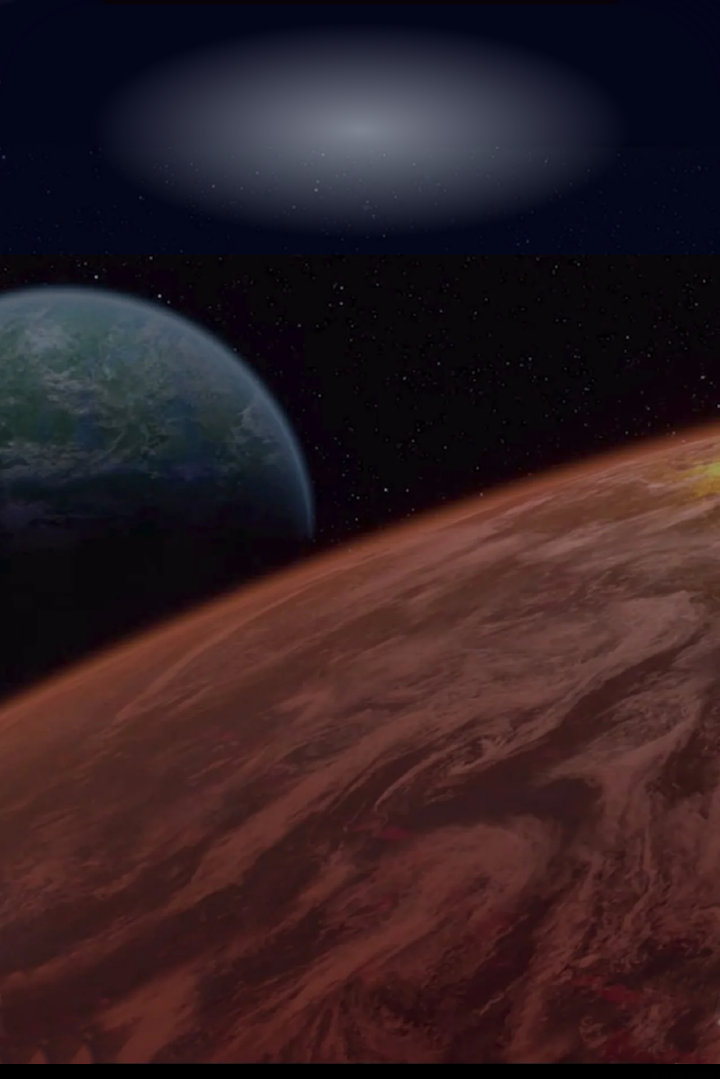
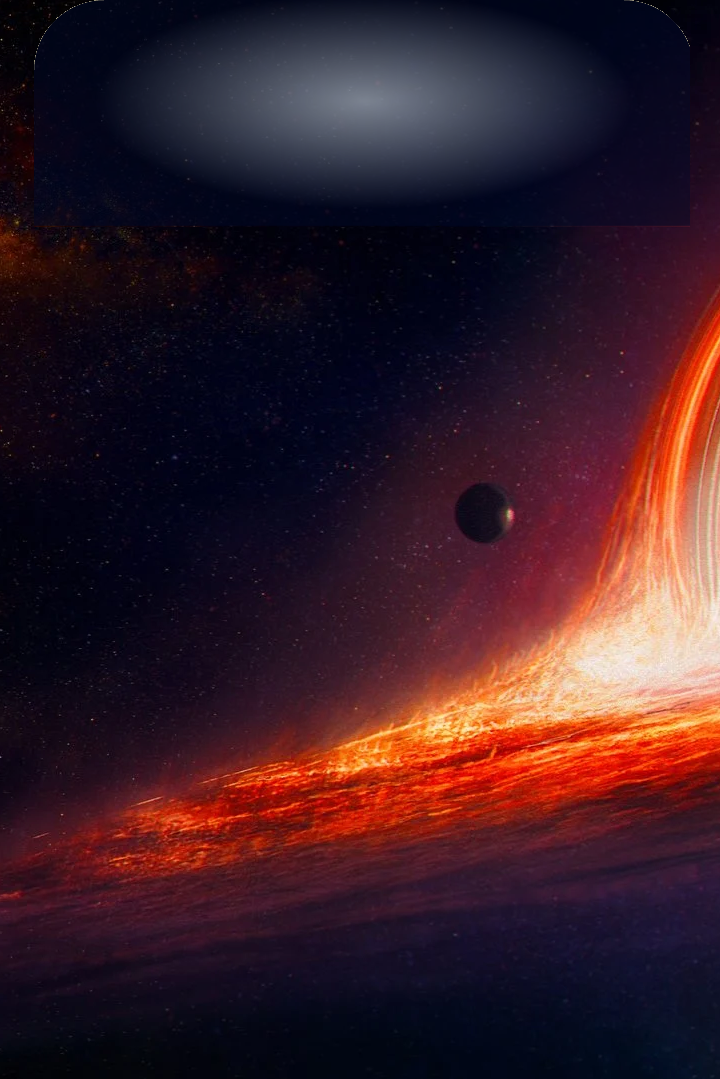
Added fleet battle stats to player cards

diff --git a/resources/views/pilotcard.blade.php b/resources/views/pilotcard.blade.php
@@ -55,9 +55,9 @@
         main {
             background-image: url('/images/pilot-card-bg.png');
             background-size: cover;
-            border: calc(99vh * 0.02) solid #1347df;
+            border: calc(99vh * 0.02) solid rgb(164, 143, 62);
             border-radius: calc(99vh * 0.1);
-            box-shadow: 0 0 0 calc(99vh * 0.00925925925925925925925925925926) #cdd9eb inset;
+            box-shadow: 0 0 0 calc(99vh * 0.00925925925925925925925925925926) #d1c79e inset;
             color: #cdd9eb;
             display: flex;
             flex-direction: column;
@@ -116,6 +116,7 @@
             background-color: transparent;
             color: inherit;
             font-size: calc(99vh * 0.03);
+            text-align: left;
             width: 33%;
         }
         table td {
@@ -123,18 +124,26 @@
             color: #000723;
             font-size: calc(99vh * 0.036);
             width: 25%;
-            padding: calc(99vh * 0.009) calc(99vh * 0.022);
+            padding: 0 calc(99vh * 0.022);
+            text-align: right;
         }
         table th {
             font-size: calc(99vh * 0.02962);
             font-weight: normal;
             padding: calc(99vh * 0.007) calc(99vh * 0.02);
+            text-align: right;
+        }
+        table td span.medium-stat {
+            font-size: calc(99vh * 0.025);
+        }
+        table td span.smaller-stat {
+            font-size: calc(99vh * 0.02);
         }
     </style>
 </head>
 <body>
 <script>
-    let query = "INSERT INTO `cards` (`id`,`season`,`pilotname`,`team`,`team_image`,`nr_k`,`nr_d`,`nr_a`,`nr_w`,`nr_kd`,`ge_k`,`ge_d`,`ge_a`,`ge_w`,`ge_kd`,`t_kd`,`created_at`,`updated_at`) VALUES (NULL,'proto-0','{{ $pilot->pilot_name }}','{{ $team->team_name }}','{{ $team->logo != '' ? $team->logo : 'default.png' }}','{{ $nrStat['kills'] }}','{{ $nrStat['deaths'] }}','{{ $nrStat['assists'] }}','{{ $nrStat['wins'] }}','{{ number_format($nrStat['kills'] / ($nrStat['deaths'] != 0 ? $nrStat['deaths'] : 1), 2) }}','{{ $eStat['kills'] }}','{{ $eStat['deaths'] }}','{{ $eStat['assists'] }}','{{ $eStat['wins'] }}','{{ number_format($eStat['kills'] / ($eStat['deaths'] != 0 ? $eStat['deaths'] : 1), 2) }}','{{ number_format(($nrStat['kills'] + $eStat['kills']) / (($nrStat['deaths'] + $eStat['deaths']) != 0 ? ($nrStat['deaths'] + $eStat['deaths']) : 1), 2) }}',NULL,NULL); ";
+    let query = "INSERT INTO `cards` (`id`,`season`,`pilotname`,`team`,`team_image`,`nr_k`,`nr_d`,`nr_a`,`nr_w`,`nr_kd`,`nr_ai`,`nr_cap`,`ge_k`,`ge_d`,`ge_a`,`ge_w`,`ge_kd`,`ge_ai`,`ge_cap`,`t_kd`,`created_at`,`updated_at`) VALUES (NULL,'proto-0','{{ $pilot->pilot_name }}','{{ $team->team_name }}','{{ $team->logo != '' ? $team->logo : 'default.png' }}','{{ $nrStat['kills'] }}','{{ $nrStat['deaths'] }}','{{ $nrStat['assists'] }}','{{ $nrStat['wins'] }}','{{ number_format($nrStat['kills'] / ($nrStat['deaths'] != 0 ? $nrStat['deaths'] : 1), 2) }}','{{ $nrStat['ai'] }}','{{ $nrStat['cap'] }}','{{ $eStat['kills'] }}','{{ $eStat['deaths'] }}','{{ $eStat['assists'] }}','{{ $eStat['wins'] }}','{{ number_format($eStat['kills'] / ($eStat['deaths'] != 0 ? $eStat['deaths'] : 1), 2) }}','{{ $eStat['ai'] }}','{{ $eStat['cap'] }}','{{ number_format(($nrStat['kills'] + $eStat['kills']) / (($nrStat['deaths'] + $eStat['deaths']) != 0 ? ($nrStat['deaths'] + $eStat['deaths']) : 1), 2) }}',NULL,NULL); ";
 
     console.log(query);
 </script>
@@ -178,10 +187,16 @@
             <td>{{ $eStat['wins'] + $nrStat['wins'] }}</td>
         </tr>
         <tr>
-            <td>K/D</td>
-            <td>{{ number_format($nrStat['kills'] / ($nrStat['deaths'] != 0 ? $nrStat['deaths'] : 1), 2) }}</td>
-            <td>{{ number_format($eStat['kills'] / ($eStat['deaths'] != 0 ? $eStat['deaths'] : 1), 2) }}</td>
-            <td>{{ number_format(($nrStat['kills'] + $eStat['kills']) / (($nrStat['deaths'] + $eStat['deaths']) != 0 ? ($nrStat['deaths'] + $eStat['deaths']) : 1), 2) }}</td>
+            <td>AI</td>
+            <td><span class="medium-stat">{{ number_format($nrStat['ai']) }}</span></td>
+            <td><span class="medium-stat">{{ number_format($eStat['ai']) }}</span></td>
+            <td><span class="medium-stat">{{ number_format($eStat['ai'] + $nrStat['ai']) }}</span></td>
+        </tr>
+        <tr>
+            <td>CAP</td>
+            <td><span class="smaller-stat">{{ number_format($nrStat['cap']) }}</span></td>
+            <td><span class="smaller-stat">{{ number_format($eStat['cap']) }}</span></td>
+            <td><span class="smaller-stat">{{ number_format($eStat['cap'] + $nrStat['cap']) }}</span></td>
         </tr>
     </table>
     <figure>

diff --git a/app/Http/Controllers/HomeController.php b/app/Http/Controllers/HomeController.php
@@ -109,8 +109,8 @@ class HomeController extends Controller
         $pilot = pilot::where('pilot_name', $pilotname)->first();
         $team = team::where('id', $pilot->team_id)->first();
         $stats = pilotStat::where('pilot_id', $pilot->id)->get();
-        $nrStat = ['kills' => 0, 'deaths' => 0, 'assists' => 0, 'wins' => 0];
-        $eStat = ['kills' => 0, 'deaths' => 0, 'assists' => 0, 'wins' => 0];
+        $nrStat = ['kills' => 0, 'deaths' => 0, 'assists' => 0, 'wins' => 0, 'cap' => 0, 'ai' => 0];
+        $eStat = ['kills' => 0, 'deaths' => 0, 'assists' => 0, 'wins' => 0, 'cap' => 0, 'ai' => 0];
 
         for ($i = 0; $i < count($stats); $i++) {
             $match = \App\Models\match::where('id', $stats[$i]->match_id)->first();
@@ -123,12 +123,16 @@ class HomeController extends Controller
                     $nrStat["deaths"]+=$stats[$i]->deaths;
                     $nrStat["assists"]+=$stats[$i]->assists;
                     $nrStat["wins"]+=$stats[$i]->match_won;
+                    $nrStat["ai"]+=$stats[$i]->ai_kills;
+                    $nrStat["cap"]+=$stats[$i]->cap_damage;
                 } else {
                     //add to emp stats
                     $eStat["kills"]+=$stats[$i]->kills;
                     $eStat["deaths"]+=$stats[$i]->deaths;
                     $eStat["assists"]+=$stats[$i]->assists;
                     $eStat["wins"]+=$stats[$i]->match_won;
+                    $eStat["ai"]+=$stats[$i]->ai_kills;
+                    $eStat["cap"]+=$stats[$i]->cap_damage;
                 }
             }
             if ($pilot->team_id == $matchup->team2_id) {
@@ -138,12 +142,16 @@ class HomeController extends Controller
                     $nrStat["deaths"]+=$stats[$i]->deaths;
                     $nrStat["assists"]+=$stats[$i]->assists;
                     $nrStat["wins"]+=$stats[$i]->match_won;
+                    $nrStat["ai"]+=$stats[$i]->ai_kills;
+                    $nrStat["cap"]+=$stats[$i]->cap_damage;
                 } else {
                     //add to emp stats
                     $eStat["kills"]+=$stats[$i]->kills;
                     $eStat["deaths"]+=$stats[$i]->deaths;
                     $eStat["assists"]+=$stats[$i]->assists;
                     $eStat["wins"]+=$stats[$i]->match_won;
+                    $eStat["ai"]+=$stats[$i]->ai_kills;
+                    $eStat["cap"]+=$stats[$i]->cap_damage;
                 }
             }
 

diff --git a/app/Models/card.php b/app/Models/card.php
@@ -19,11 +19,15 @@ class card extends Model
         'nr_a',
         'nr_w',
         'nr_kd',
+        'nr_ai',
+        'nr_cap',
         'ge_k',
         'ge_d',
         'ge_a',
         'ge_w',
         'ge_kd',
+        'ge_ai',
+        'ge_cap',
         't_kd',
     ];
 }
